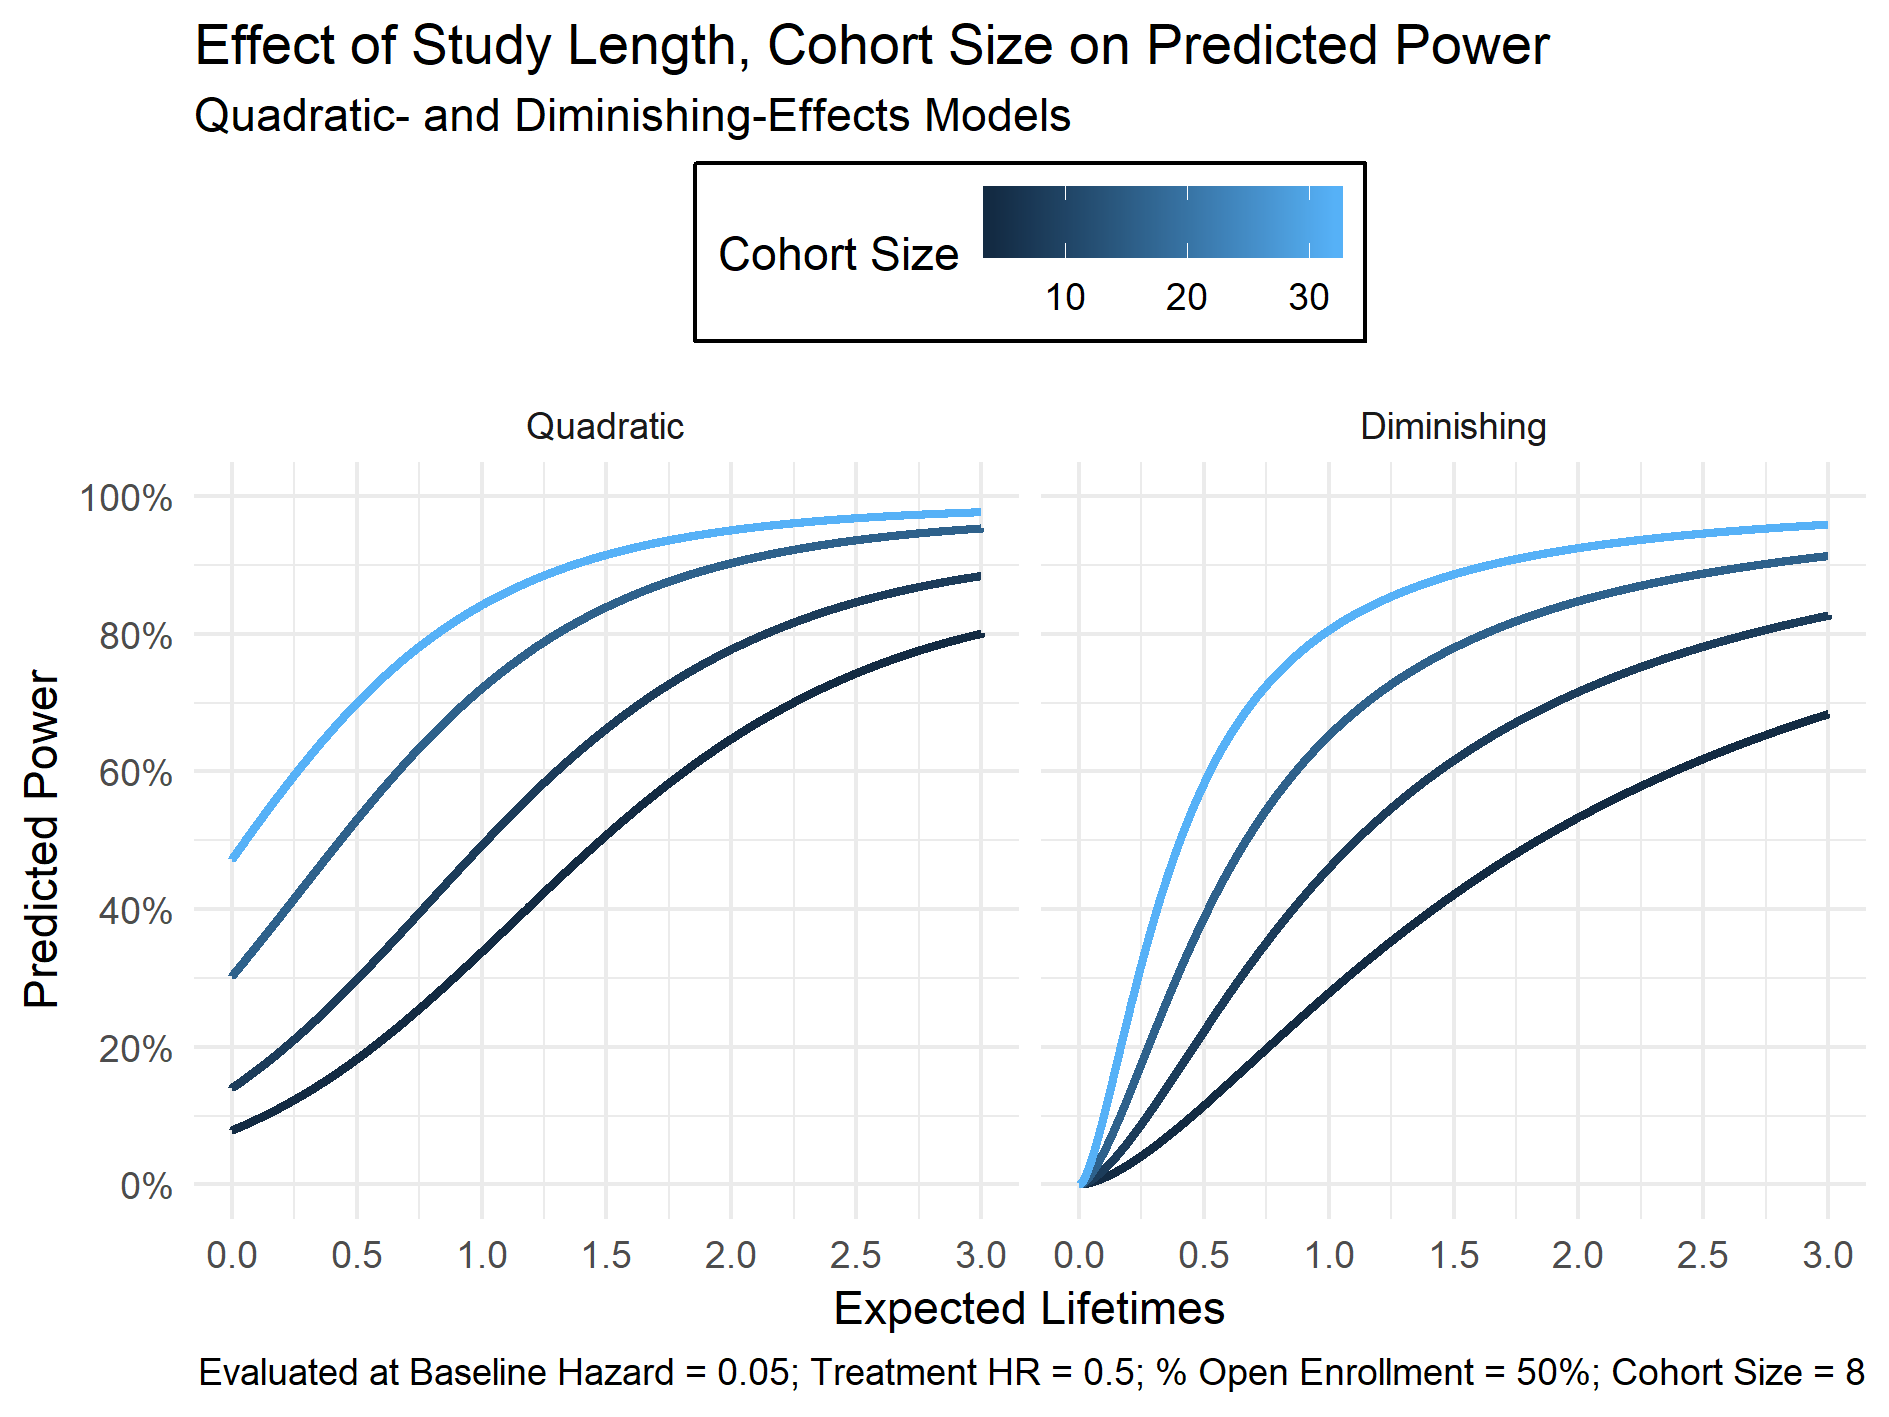
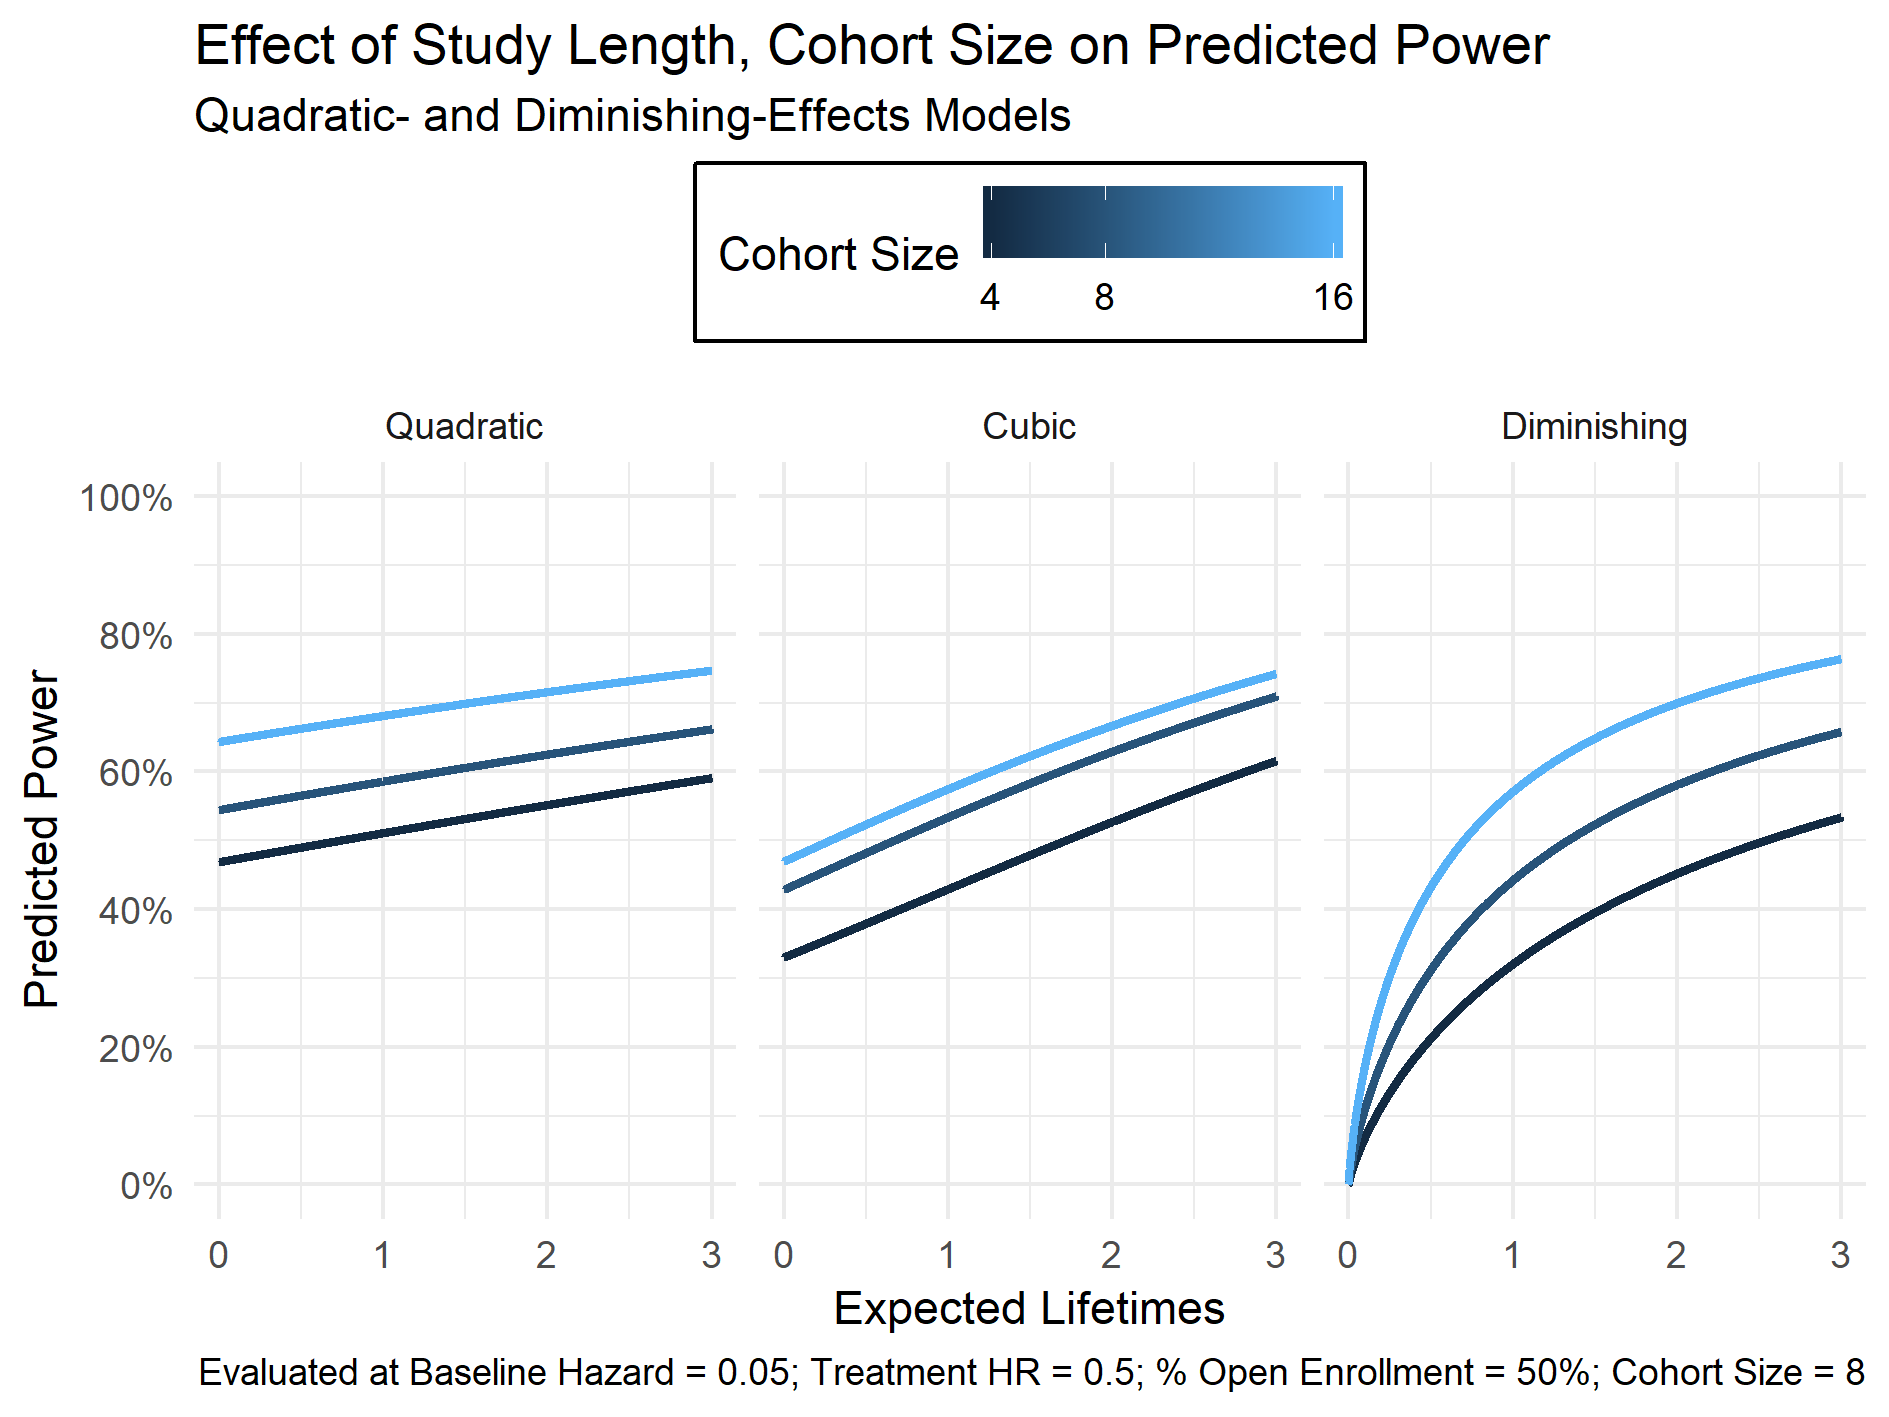
update reports

diff --git a/reports/results.tex b/reports/results.tex
@@ -19,9 +19,9 @@ We verify that chose appropriate dataset parameters by observing the distributio
 
 \subsection{Logistic Models}
 
-In this section we interpret the predicted effects of four models. We briefly review the model results before discussing the effects of dataset parameters separately. The estimates for each model are summarized in Tables \ref{tbl:lin-quad-models} and \ref{tbl:log-model} \cite{stargazer}. 
+In this section we interpret the predicted effects of four models. We briefly review the model results before discussing the effects of dataset parameters separately. The estimates for each model are summarized in tables \ref{tbl:lin-quad-cubic} and \ref{tbl:dim}  \cite{stargazer}. 
 
-The linear-effects model (1) reinforces all our assumptions with no unexpected signs. Each dataset parameter has a large effect size and is significant at the $p < 0.01$ level. The quadratic-effects model (2) also fit as desired. Comparing their Akaike information criterion (AIC), the quadratic model appears to be a better specified model (their AICs are 2,534 and 2,180, respectively). 
+The linear-effects model reinforces all our assumptions with no unexpected signs. Each dataset parameter has a large effect size and is significant at the $p < 0.01$ level. The quadratic-effects model also fit as desired. Comparing their Akaike information criterion (AIC), the quadratic model appears to be a better specified model (their AICs are 2,659 and 2,574, respectively). 
 
 The cubic-effects model is suspicious. First, many of the values are not significant. This may be due to high multicollinearity between first-, second-, and third-order arguments. 
 
@@ -57,11 +57,8 @@ Expected lifetimes $(\nu)$ is the parameter indicating study-length. We're getti
 
 Power rapidly increases where $\nu < 2$ and slowly tapers off after $\nu = 2$. The effect is so pronounced that it seems reasonable to advise small studies observe at least 2 expected lifetimes before applying the Cox proportional hazards model --- when the constraint is possible. As figure (\ref{fig:power-expected-lifetimes-cohort-size}) shows, however, the effect is readily offset by the introduction of large cohorts. That is, short studies of several patients are more powerful than longer studies with few patients. 
 
-\subsubsection{Share of Enrollment Periods Open $(\omega)$}
+\subsubsection{Share of Open Enrollment Periods $(\omega)$}
 
-Finally, we arrive at the core question we set out to answer. How do we filter our dataset to maximize power?  Shockingly, not one model suggests an inversion point for valid values of $\omega$. This suggests that the marginal value of an additional 
+Finally, we arrive at the core question we set out to answer. How do we filter our dataset to maximize power? The quadratic- and diminishing-effects models disagree where $\omega > 0.8$ (Figure \ref{fig:power-pct-open-enrollment}). The former suggests including the last 20\% of cohorts cause the study to lose power power, whereas the latter suggests the same add power to the study. With these results, we believe the answer is unimportant; the effect of the last 20\% of cohorts is very small in either case. 
 
-
-\begin{itemize}
-    \item It's always better to add more cohorts (Figure \ref{fig:power-pct-open-enrollment}).
-\end{itemize}
+It's likely there is an interaction effect between $\nu$ and $\omega$. Naturally, a longer study should be able to include more cohorts. 

diff --git a/reports/figures/model-results/lin-quad-cubic-effects.tex b/reports/figures/model-results/lin-quad-cubic-effects.tex
@@ -69,3 +69,74 @@ Akaike Inf. Crit. & 2,659.222 & 2,574.334 & 2,451.432 \\
 \textit{Note:}  & \multicolumn{3}{r}{$^{*}$p$<$0.1; $^{**}$p$<$0.05; $^{***}$p$<$0.01} \\ 
 \end{tabular} 
 \end{table}  
+
+% Table created by stargazer v.5.2.2 by Marek Hlavac, Harvard University. E-mail: hlavac at fas.harvard.edu
+% Date and time: Sun, Dec 16, 2018 - 5:03:42 PM
+\begin{table}[!htbp] \centering 
+  \caption{} 
+  \label{} 
+\begin{tabular}{@{\extracolsep{5pt}}lccc} 
+\\[-1.8ex]\hline 
+\hline \\[-1.8ex] 
+ & \multicolumn{3}{c}{\textit{Dependent variable:}} \\ 
+\cline{2-4} 
+\\[-1.8ex] & \multicolumn{3}{c}{isCorrect} \\ 
+\\[-1.8ex] & (1) & (2) & (3)\\ 
+\hline \\[-1.8ex] 
+ baselineHazardRate & 1.340$^{***}$ & 0.751 & $-$2.235 \\ 
+  & (0.393) & (1.957) & (4.326) \\ 
+  & & & \\ 
+ baselineHazardRate2 &  & $-$4.985 & $-$22.803 \\ 
+  &  & (3.371) & (22.338) \\ 
+  & & & \\ 
+ baselineHazardRate3 &  &  & 43.008 \\ 
+  &  &  & (30.519) \\ 
+  & & & \\ 
+ treatmentHazardRatio & $-$2.578$^{***}$ & 4.912$^{***}$ & 11.310$^{***}$ \\ 
+  & (0.168) & (0.719) & (2.057) \\ 
+  & & & \\ 
+ treatmentHazardRatio2 &  & $-$9.106$^{***}$ & $-$28.417$^{***}$ \\ 
+  &  & (0.848) & (5.509) \\ 
+  & & & \\ 
+ treatmentHazardRatio3 &  &  & 14.215$^{***}$ \\ 
+  &  &  & (3.981) \\ 
+  & & & \\ 
+ cohortSize & 0.011$^{**}$ & 0.100$^{***}$ & 0.247$^{*}$ \\ 
+  & (0.005) & (0.025) & (0.132) \\ 
+  & & & \\ 
+ cohortSize2 &  & $-$0.002$^{***}$ & $-$0.014 \\ 
+  &  & (0.001) & (0.010) \\ 
+  & & & \\ 
+ cohortSize3 &  &  & 0.0003 \\ 
+  &  &  & (0.0002) \\ 
+  & & & \\ 
+ expectedLifetimes & 0.003 & 0.171$^{***}$ & 0.439$^{***}$ \\ 
+  & (0.006) & (0.022) & (0.051) \\ 
+  & & & \\ 
+ expectedLifetimes2 &  & $-$0.002$^{***}$ & $-$0.016$^{***}$ \\ 
+  &  & (0.0003) & (0.002) \\ 
+  & & & \\ 
+ expectedLifetimes3 &  &  & 0.0001$^{***}$ \\ 
+  &  &  & (0.00002) \\ 
+  & & & \\ 
+ pctOpenEnrollmentPeriods & $-$0.022 & 1.830$^{**}$ & 12.581$^{***}$ \\ 
+  & (0.149) & (0.718) & (3.011) \\ 
+  & & & \\ 
+ pctOpenEnrollmentPeriods2 &  & $-$1.147$^{*}$ & $-$25.660$^{***}$ \\ 
+  &  & (0.598) & (7.291) \\ 
+  & & & \\ 
+ pctOpenEnrollmentPeriods3 &  &  & 15.018$^{***}$ \\ 
+  &  &  & (4.628) \\ 
+  & & & \\ 
+ Constant & 0.823$^{***}$ & $-$1.327$^{***}$ & $-$3.402$^{***}$ \\ 
+  & (0.119) & (0.252) & (0.577) \\ 
+  & & & \\ 
+\hline \\[-1.8ex] 
+Observations & 2,098 & 2,098 & 2,098 \\ 
+Log Likelihood & $-$1,319.339 & $-$1,211.736 & $-$1,180.860 \\ 
+Akaike Inf. Crit. & 2,650.678 & 2,445.472 & 2,393.720 \\ 
+\hline 
+\hline \\[-1.8ex] 
+\textit{Note:}  & \multicolumn{3}{r}{$^{*}$p$<$0.1; $^{**}$p$<$0.05; $^{***}$p$<$0.01} \\ 
+\end{tabular} 
+\end{table}  

diff --git a/reports/introduction.tex b/reports/introduction.tex
@@ -1,6 +1,6 @@
 \section{Introduction}
 
-Survival analysis is the statistical framework that underpinning libraries of medical research. The Cox proportional hazards model \cite{cox} is perhaps the most ubiquitous model used today. The model is widely used in medicine to model the effect of several variables on patient survival, and often applied to controlled studies planned months or years in advance.
+The Cox proportional hazards model \cite{cox} is a core component of several experimental designs in medicine and beyond. These experimental results impact the lives of millions of patients globally and billions of dollars in investment. Little is understood, however, regarding which design elements most contribute to a design's success or failure; i.e. the study's statistical power. Scientists can design more effective and cost-effective studies by understanding which design elements impact statistical power.
 
 \subsection{An Illustrative Example}
 
@@ -14,11 +14,8 @@ One solution is to stop introducing new patients to the study and to analyze the
 
 A second solution is to observe the data and pick the cut-off point that looks best, but Caitlin is wary of biasing the dataset by choosing data she determines valuable. Her results may be called into question and compromise her integrity as a medical professional. 
 
-How then, can Caitlin honestly and ethically subset her dataset to maximize the power of the Cox proportional hazards model? The answer is important to Caitlin, but to medicine in general. If we can design a better study, then we can test results and apply the resulting treatments to patients faster. 
+How then, can Caitlin honestly and ethically subset her dataset to maximize the power of the Cox proportional hazards model? The answer is important, not only to Caitlin, but to medicine in general. If we can design a better study, then we can test results and apply the resulting treatments to patients faster. 
 
 \subsection{Existing Literature}
 
-There is some existing literature on the topic of power analysis \cite{bender, gonen, hsieh}, but none recommend how to filter a dataset to maximize statistical power of the Cox proportional hazards model. This is a novel approach as far as we can tell.
-
-
-
+There is some existing literature on the topic of power analysis for the Cox proportional hazards model \cite{bender, gonen, hsieh}, but none recommend how to filter a dataset to maximize statistical power of the Cox proportional hazards model. This is a novel approach as far as we can tell.

diff --git a/reports/discussion.tex b/reports/discussion.tex
@@ -1,19 +1,14 @@
 \section{Discussion}
 
-There will be a lot to discuss when it's done. 
+We set out to understand how a scientist can ethically subset their dataset to maximize the stastical power of the Cox proportional hazards model. We designed our experiments to understand how different design elements affect a study's power. 
 
-I think this was useful to understand which predictors have the greatest effect on power, but I distrust the predictions because the dataset parameters covered only a small area of the total sample space.
+We uncovered three new findings:
+
+\begin{enumerate}
+    \item The final 20\% of cohorts present questionable value to the study, and acknowledge likely an interaction effect between study length and the number open enrollment periods on statistical power. 
+    \item The most effective means to increase power in small studies is to increase cohort size and study length. 
+\end{enumerate}
 
 \subsection{Next Steps}
 
-\begin{itemize}
-    \item Apply to Accelerated Failure Time model; compare results. 
-    \item Find better features.
-    \item Define the mathematics for power testing.
-    \item Our models were designed with inference, not prediction, in mind. How might a prediction model change things?
-\end{itemize}
-
-
-
-
-
+We present recommendations for future researchers interested in reproducing and expanding on our work. The most immediate improvements can be made by defining new features and fitting new models on these features. In the absence of a theoretically derived power calculation, a reliable predictive model may be employed with sufficient data and model design. Such a predictive model could inform scientists globally and reduce the cost of research. Finally, we'd like to see our findings applied to different survival models, such as the accelerated failure time model to compare and contrast results. 

diff --git a/reports/figures.tex b/reports/figures.tex
@@ -11,41 +11,40 @@
 \caption[Observed Power of Simulated Cox-PH Models]{}
 \label{fig:hist}
 \includegraphics[width=\textwidth]{reports/figures/simulation-histogram.png}
-\end{figure}
+% \end{figure}
 
-\begin{figure}
+% \begin{figure}
 \caption[Effect of Baseline Hazard Rate on Power]{}
 \label{fig:power-baseline-hazard}
 \includegraphics[width=\textwidth]{reports/figures/single-effects/power-baseline-hazard.png}
+\end{figure}
 
-% \end{figure}
-
-% \begin{figure}
+\begin{figure}
 \caption[Effect of Treatment Hazard Ratio on Power]{}
 \label{fig:power-treatment-hr}
 \includegraphics[width=\textwidth]{reports/figures/single-effects/power-treatment-hr.png}
-\end{figure}
+% \end{figure}
 
-\begin{figure}
+% \begin{figure}
 \caption[Effect of Cohort Size on Power]{}
 \label{fig:power-cohort-size}
 \includegraphics[width=\textwidth]{reports/figures/single-effects/power-cohort-size.png}
-% \end{figure}
-
-% \begin{figure}
-\caption[Effect of Study Length on Power]{}
-\label{fig:power-expected-lifetimes}
-\includegraphics[width=\textwidth]{reports/figures/single-effects/power-expected-lifetimes.png}
 \end{figure}
 
 \begin{figure}
+\caption[Effect of Study Length on Power]{}
+\label{fig:power-expected-lifetimes}
+\includegraphics[width=\textwidth]{reports/figures/single-effects/power-expected-lifetimes.png}
+% \end{figure}
+
+% \begin{figure}
 \caption[Effect of Study Length, Cohort Size on Power]{}
 \label{fig:power-expected-lifetimes-cohort-size}
 \includegraphics[width=\textwidth]{reports/figures/multiple-effects/power-expected-lifetimes-cohort-size.png}
-% \end{figure}
+\end{figure}
 
 
-% \begin{figure}
+\begin{figure}
 \caption[Effect of New Cohorts on Power]{}
 \label{fig:power-pct-open-enrollment}
 \includegraphics[width=\textwidth]{reports/figures/single-effects/power-pct-open-enrollment.png}

diff --git a/reports/methodology.tex b/reports/methodology.tex
@@ -26,7 +26,9 @@ The dataset simulations was programmed with R in RStudio \cite{R, rstudio}. The 
 
 The resulting dataset contains $n_c \times s$ observations on simulated individuals. The binomial treatment variable is evenly distributed across individuals such that $\frac{s}{2}$ are labeled "treated" and the remaining are labeled "untreated".
 
-We must classify when an individual died or if they are right-censored. Individual time of death is sampled from\footnotemark \cite{agresti:categorical}
+We must classify when an individual died or if they are right-censored. Individual time of death is sampled from\footnotemark 
+
+%\cite{agresti:categorical}
 
 \footnotetext{We define the hazard rate as $\lambda \cdot \exp[\beta x]$ to reflect Cox's proportional hazards assumption.}
 %
@@ -126,7 +128,7 @@ as the fraction of enrollment periods that accept new cohorts.
 
 \subsubsection{Correctness}
 
-We intend to use Logistic regression to identify which dataset parameters have the greatest effect on statistical power; which dataset parameters maximize the chance of a correct result. Before continuing further, we define what constitutes a "correct" result. Classically, our null hypothesis is
+We intend to use logistic regression to identify which dataset parameters have the greatest effect on statistical power; which dataset parameters maximize the chance of a correct result. Before continuing further, we define what constitutes a "correct" result. Classically, our null hypothesis is
 %
 \begin{equation}
     H_0 : \alpha = 0 

diff --git a/reports/figures/model-results/diminishing-effects.tex b/reports/figures/model-results/diminishing-effects.tex
@@ -38,3 +38,43 @@ Akaike Inf. Crit. & 2,371.555 \\
 \textit{Note:}  & \multicolumn{1}{r}{$^{*}$p$<$0.1; $^{**}$p$<$0.05; $^{***}$p$<$0.01} \\ 
 \end{tabular} 
 \end{table}  
+
+% Table created by stargazer v.5.2.2 by Marek Hlavac, Harvard University. E-mail: hlavac at fas.harvard.edu
+% Date and time: Sun, Dec 16, 2018 - 5:03:43 PM
+\begin{table}[!htbp] \centering 
+  \caption{} 
+  \label{} 
+\begin{tabular}{@{\extracolsep{5pt}}lc} 
+\\[-1.8ex]\hline 
+\hline \\[-1.8ex] 
+ & \multicolumn{1}{c}{\textit{Dependent variable:}} \\ 
+\cline{2-2} 
+\\[-1.8ex] & isCorrect \\ 
+\hline \\[-1.8ex] 
+ exp(baselineHazardRate) & $-$2.391$^{***}$ \\ 
+  & (0.356) \\ 
+  & \\ 
+ exp(treatmentHazardRatio) & $-$2.550$^{***}$ \\ 
+  & (0.141) \\ 
+  & \\ 
+ logCohortSize & 0.748$^{***}$ \\ 
+  & (0.084) \\ 
+  & \\ 
+ logExpectedLifetimes & 0.806$^{***}$ \\ 
+  & (0.064) \\ 
+  & \\ 
+ logPctOpenEnrollmentPeriods & 0.432$^{***}$ \\ 
+  & (0.066) \\ 
+  & \\ 
+ Constant & 5.228$^{***}$ \\ 
+  & (0.484) \\ 
+  & \\ 
+\hline \\[-1.8ex] 
+Observations & 2,098 \\ 
+Log Likelihood & $-$1,209.214 \\ 
+Akaike Inf. Crit. & 2,430.428 \\ 
+\hline 
+\hline \\[-1.8ex] 
+\textit{Note:}  & \multicolumn{1}{r}{$^{*}$p$<$0.1; $^{**}$p$<$0.05; $^{***}$p$<$0.01} \\ 
+\end{tabular} 
+\end{table}  

diff --git a/reports/abstract.tex b/reports/abstract.tex
@@ -1,3 +1,3 @@
 \begin{abstract}
-This here is the best abstract ever written. It's clear, concise, and sets expectations with minimal fanfare. You put the problem in context. You briefly explain why the problem exists. Again, briefly explain what you're gonna do to solve the problem. Then you take a few lines explain your results and why they're important. How should one honestly and ethically subset their dataset to maximize the power of the Cox proportional hazards model?  
+The Cox proportional hazards model is a core component of several experimental designs in medicine and beyond. These experimental results impact the lives of millions of patients globally and billions of dollars in investment. Little is understood, however, regarding which design elements most contribute to a design's success or failure; i.e. the study's statistical power. Scientists can design more effective and cost-effective studies by understanding which design elements impact statistical power. We design an experiment to answer this question by simulating survival datasets, fitting several Cox proportional hazards models, and analyzing the results. We find the most effective means to increase power in small studies is to increase cohort size and study length.
 \end{abstract}

diff --git a/reports/main.tex b/reports/main.tex
@@ -28,7 +28,7 @@ Cox Proportional Hazards Model}
 \input{reports/results.tex}
 \input{reports/discussion.tex}
 
-\newpage 
+% \newpage 
 
 % \medskip
 \bibliography{bibliography}
